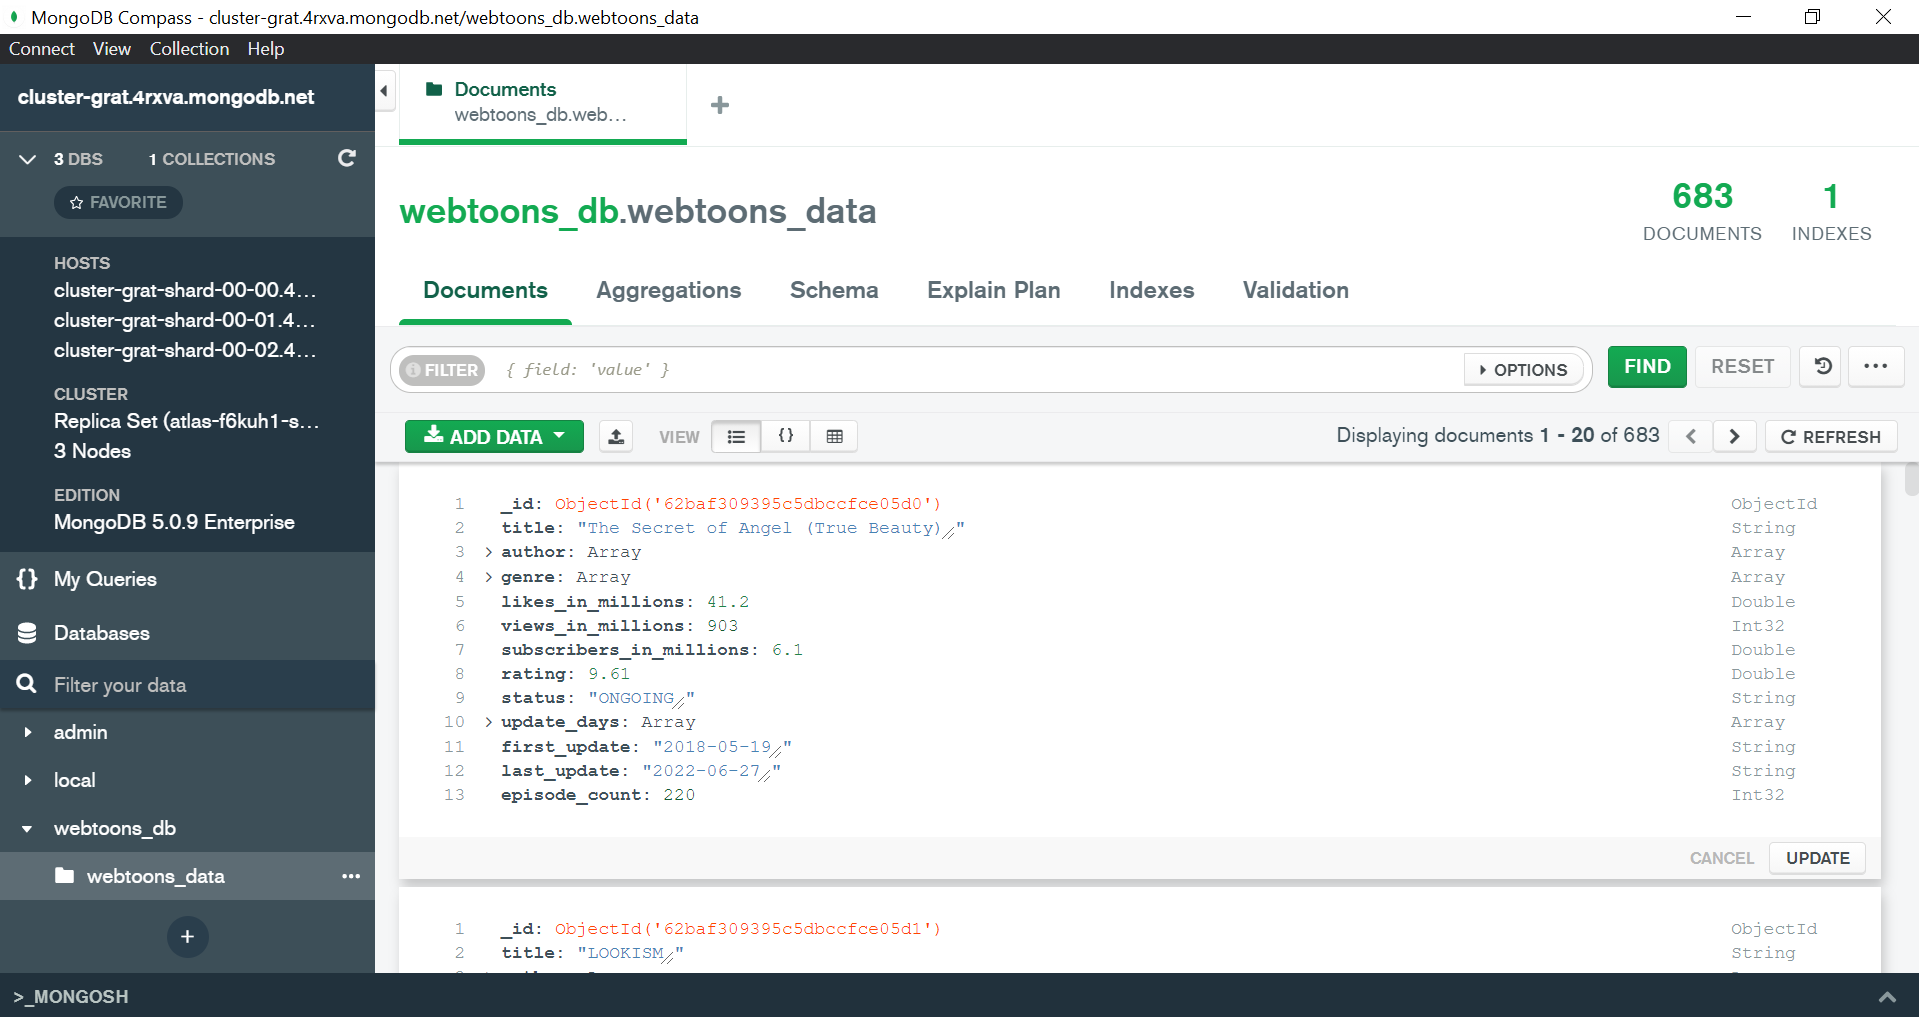
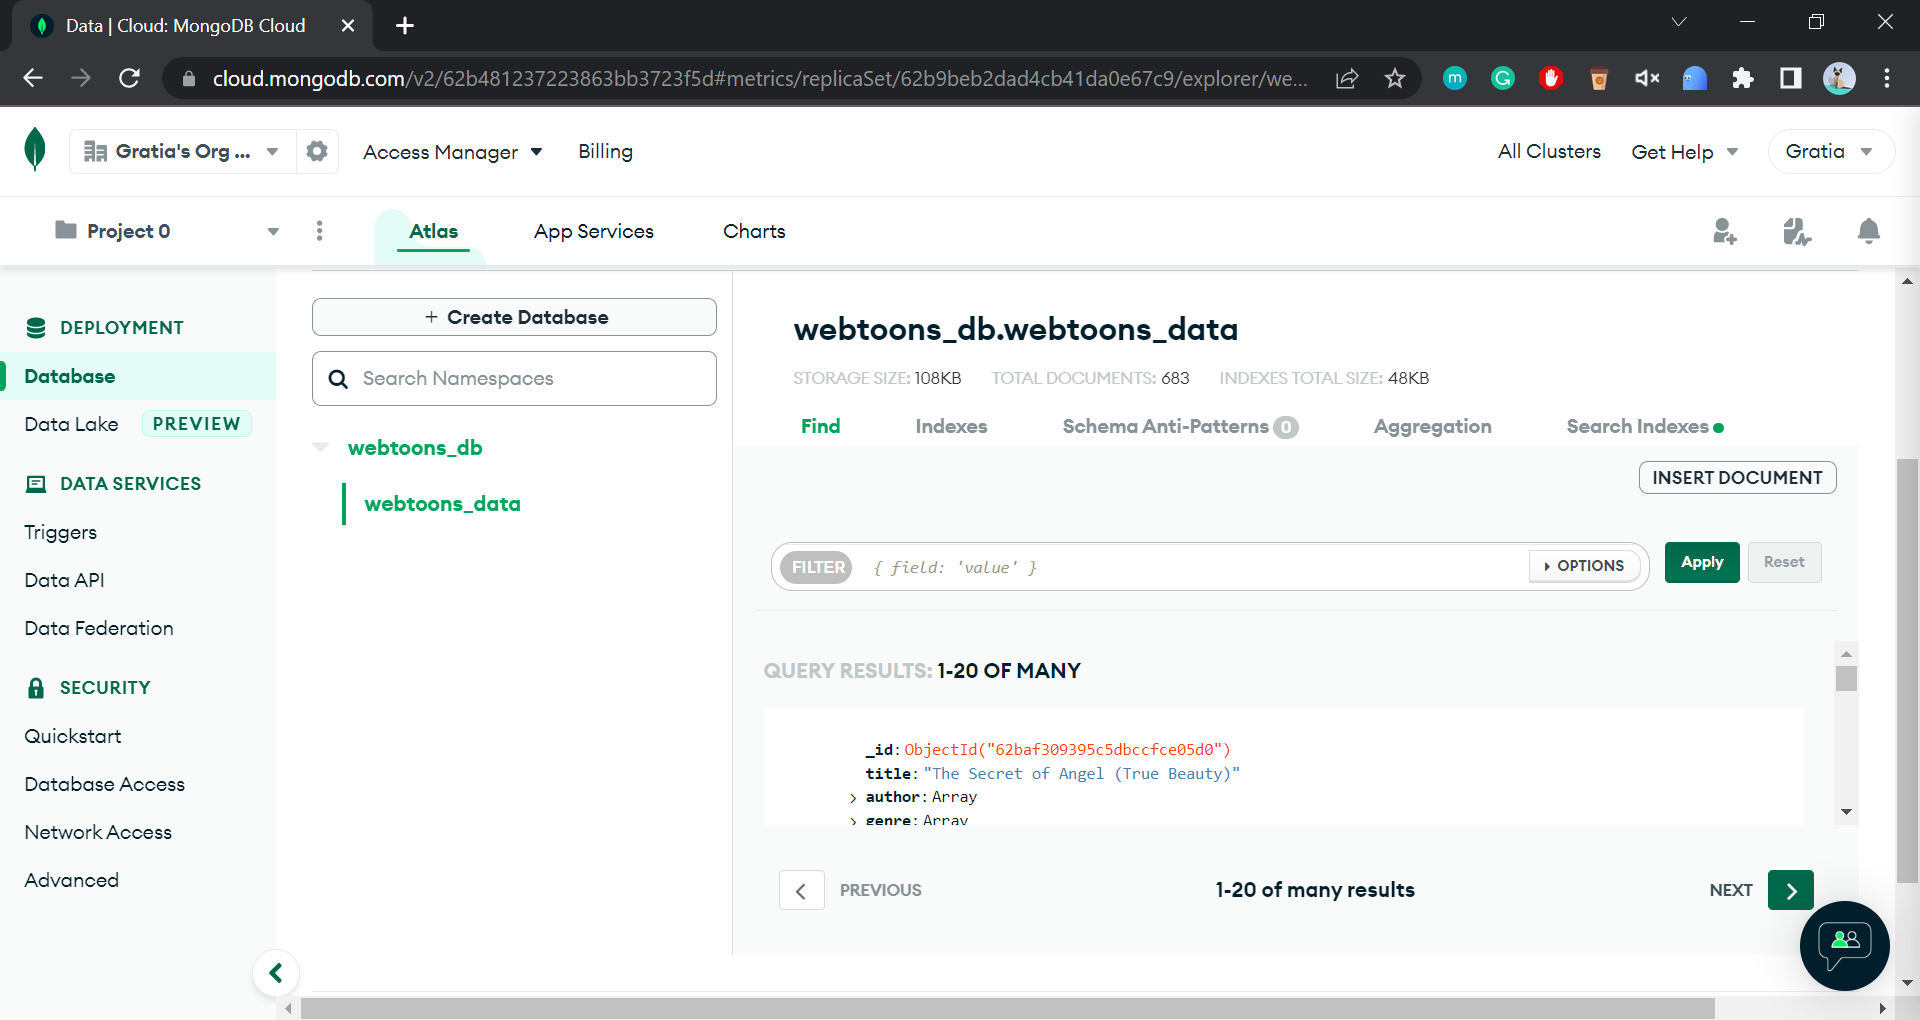
update readme and screenshots

diff --git a/README.md b/README.md
@@ -1,6 +1,6 @@
 <h1 align="center">
   <br>
-  Data Webtoon Bahasa Indonesia dari webtoons.com/id
+   Indonesian WEBTOONS Data from webtoons.com/id
   <br>
   <br>
 </h1>
@@ -121,11 +121,11 @@ __FUNCTIONS__
 ![Function2](Data%20Scraping/screenshot/function2.png)
 ![Function3](Data%20Scraping/screenshot/function3.png)
 ![Function4](Data%20Scraping/screenshot/function4.png)
-![Function5](Data%20Scraping/screenshot/function1.png)
-![Function6](Data%20Scraping/screenshot/function1.png)
-![Function7](Data%20Scraping/screenshot/function1.png)
-![Function8](Data%20Scraping/screenshot/function1.png)
-![Function9](Data%20Scraping/screenshot/function1.png)
+![Function5](Data%20Scraping/screenshot/function5.png)
+![Function6](Data%20Scraping/screenshot/function6.png)
+![Function7](Data%20Scraping/screenshot/function7.png)
+![Function8](Data%20Scraping/screenshot/function8.png)
+![Function9](Data%20Scraping/screenshot/function9.png)
 
 __PREPROCESSING__
 ![Preprocessing1](Data%20Scraping/screenshot/preprocessing1.png)
@@ -142,7 +142,7 @@ __Data stored in MongoDB Local__
 ![Local](Data%20Storing/screenshot/storing_mongodb_local.png)  
 
 __Data stored in MongoDB Atlas__
-![Clous](Data%20Storing/screenshot/storing_mongodb_atlas.png)
+![Cloud](Data%20Storing/screenshot/storing_mongodb_atlas.png)
 
 
 ## Reference
